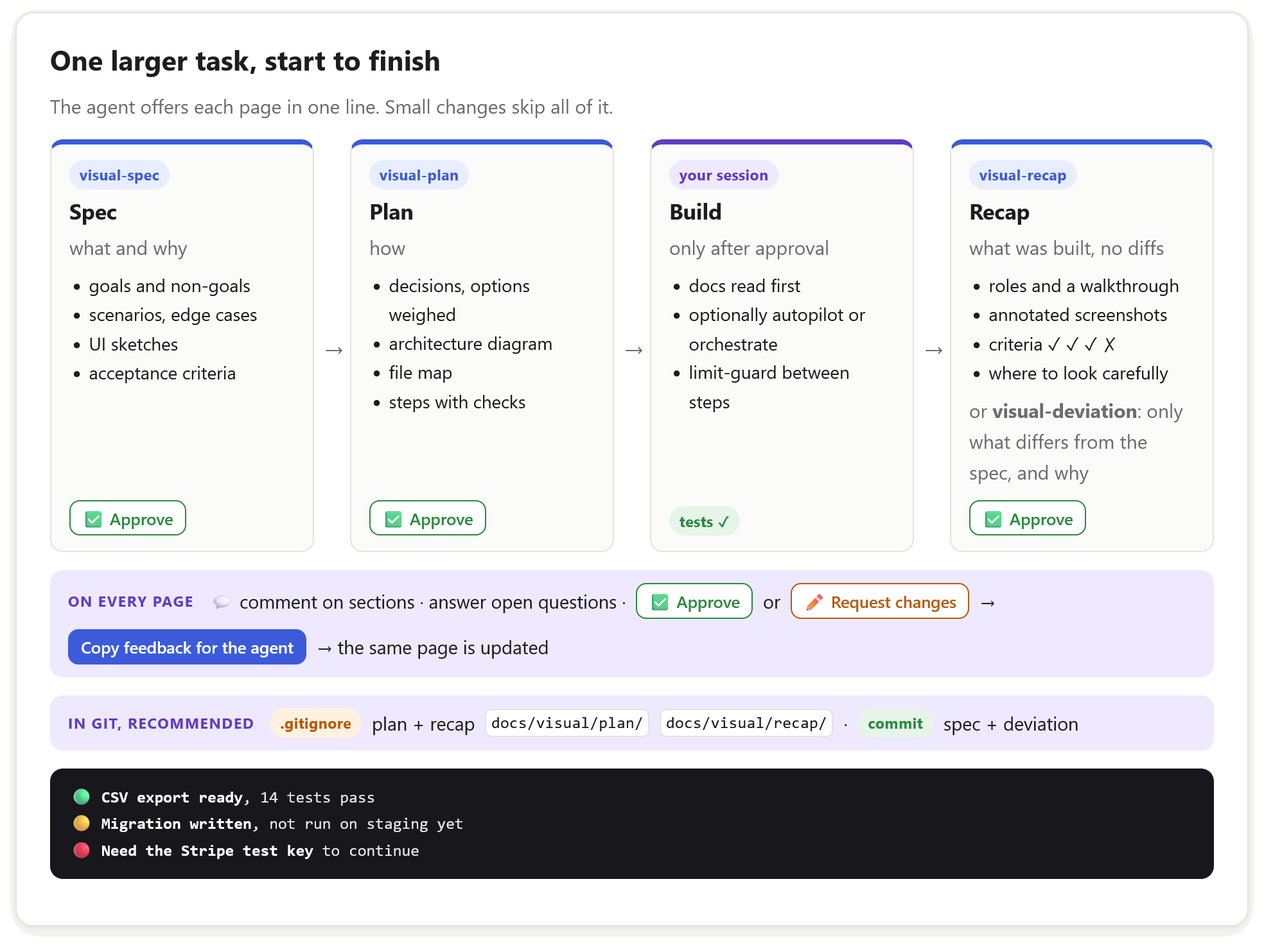
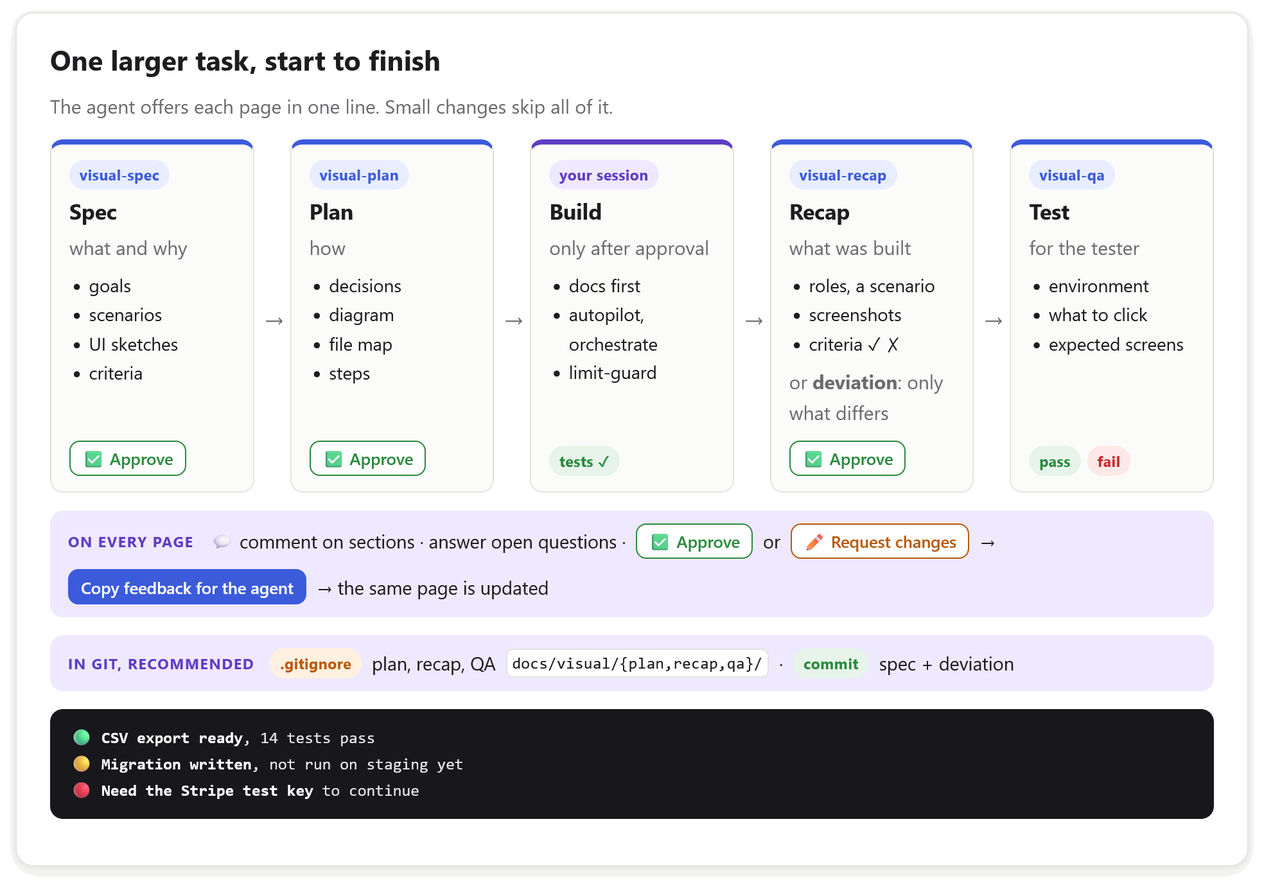
Add /suwagent:visual-qa, a test guide for testers
A visual page for handing finished work to a tester who clicks rather than reads code:
where to test, what changed, scenarios as user actions with the expected screen for each,
what is not a bug, and a pass / fail / blocked results sheet that comes back to the agent.
vdoc.py knows the qa kind; the README, its pictures and the session hook cover it, and
QA pages join plans and recaps in the recommended .gitignore.

diff --git a/docs/visual/board/readme.html b/docs/visual/board/readme.html
@@ -368,6 +368,7 @@ pre.out { font: 12px/1.5 var(--mono); background: var(--code-bg); border: 1px so
       <span class="tag ok">🟢 🟡 🔴 status line</span>
       <span class="tag note">⚙ autopilot · orchestrate</span>
       <span class="tag">📚 docs before code</span>
+      <span class="tag">🧪 test guide</span>
       <span class="tag">🖼 visual README</span>
     </div>
     <div class="side">
@@ -381,8 +382,8 @@ pre.out { font: 12px/1.5 var(--mono); background: var(--code-bg); border: 1px so
       </div>
     </div>
     <div class="stats">
-      <div><b>4</b><span>kinds of page: spec, plan, recap, deviation</span></div>
-      <div><b>12</b><span>skills, started by you or the agent</span></div>
+      <div><b>5</b><span>kinds of page: spec, plan, recap, deviation, QA</span></div>
+      <div><b>13</b><span>skills, started by you or the agent</span></div>
       <div><b>1</b><span>hook: the same rules in every project</span></div>
       <div><b>0</b><span>accounts or API keys to set up</span></div>
     </div>
@@ -421,18 +422,21 @@ pre.out { font: 12px/1.5 var(--mono); background: var(--code-bg); border: 1px so
   <p class="when">The agent offers each page in one line. Small changes skip all of it.</p>
   <div class="flow">
     <div><span class="tag accent">visual-spec</span><h4>Spec</h4><p class="when">what and why</p>
-      <ul><li>goals and non-goals</li><li>scenarios, edge cases</li><li>UI sketches</li><li>acceptance criteria</li></ul>
+      <ul><li>goals</li><li>scenarios</li><li>UI sketches</li><li>criteria</li></ul>
       <div class="foot"><span class="btn ok">✅ Approve</span></div></div>
     <div><span class="tag accent">visual-plan</span><h4>Plan</h4><p class="when">how</p>
-      <ul><li>decisions, options weighed</li><li>architecture diagram</li><li>file map</li><li>steps with checks</li></ul>
+      <ul><li>decisions</li><li>diagram</li><li>file map</li><li>steps</li></ul>
       <div class="foot"><span class="btn ok">✅ Approve</span></div></div>
     <div class="alt"><span class="tag note">your session</span><h4>Build</h4><p class="when">only after approval</p>
-      <ul><li>docs read first</li><li>optionally autopilot or orchestrate</li><li>limit-guard between steps</li></ul>
+      <ul><li>docs first</li><li>autopilot, orchestrate</li><li>limit-guard</li></ul>
       <div class="foot"><span class="tag ok">tests ✓</span></div></div>
-    <div><span class="tag accent">visual-recap</span><h4>Recap</h4><p class="when">what was built, no diffs</p>
-      <ul><li>roles and a walkthrough</li><li>annotated screenshots</li><li>criteria ✓ ✓ ✓ ✗</li><li>where to look carefully</li></ul>
-      <p class="when">or <b>visual-deviation</b>: only what differs from the spec, and why</p>
+    <div><span class="tag accent">visual-recap</span><h4>Recap</h4><p class="when">what was built</p>
+      <ul><li>roles, a scenario</li><li>screenshots</li><li>criteria ✓ ✗</li></ul>
+      <p class="when">or <b>deviation</b>: only what differs</p>
       <div class="foot"><span class="btn ok">✅ Approve</span></div></div>
+    <div><span class="tag accent">visual-qa</span><h4>Test</h4><p class="when">for the tester</p>
+      <ul><li>environment</li><li>what to click</li><li>expected screens</li></ul>
+      <div class="foot"><span class="tag ok">pass</span> <span class="tag bad">fail</span></div></div>
   </div>
   <div class="strip">
     <span class="lbl">On every page</span>
@@ -442,7 +446,7 @@ pre.out { font: 12px/1.5 var(--mono); background: var(--code-bg); border: 1px so
   </div>
   <div class="strip">
     <span class="lbl">In git, recommended</span>
-    <span class="tag warn">.gitignore</span> plan + recap <code>docs/visual/plan/</code> <code>docs/visual/recap/</code> ·
+    <span class="tag warn">.gitignore</span> plan, recap, QA <code>docs/visual/{plan,recap,qa}/</code> ·
     <span class="tag ok">commit</span> spec + deviation
   </div>
   <div class="term">🟢 <b>CSV export ready</b>, 14 tests pass
@@ -452,11 +456,12 @@ pre.out { font: 12px/1.5 var(--mono); background: var(--code-bg); border: 1px so
 
 <section id="skills">
   <div class="group">📄 Visual documents</div>
-  <div class="cards" style="--cols:3">
+  <div class="cards" style="--cols:4">
     <div><span class="ico">🎯</span><h4><code>visual-spec</code></h4><p class="when">before planning a larger change</p><p>problem, goals, scenarios, edge cases, UI sketches, acceptance criteria</p><div class="foot"><span class="tag accent">what and why</span></div></div>
     <div><span class="ico">🗺</span><h4><code>visual-plan</code></h4><p class="when">before writing code</p><p>decisions, architecture diagram, file map, ordered steps, risks</p><div class="foot"><span class="tag accent">how</span></div></div>
     <div><span class="ico">🔍</span><h4><code>visual-recap</code></h4><p class="when">after the work is done</p><p>roles, a real scenario, annotated screenshots, criteria with evidence</p><div class="foot"><span class="tag accent">what was built</span></div></div>
     <div><span class="ico">↔</span><h4><code>visual-deviation</code></h4><p class="when">you want only the differences</p><p>where the build departs from the spec: promised vs built, why, keep / fix / decide</p><div class="foot"><span class="tag accent">commit with the spec</span></div></div>
+    <div><span class="ico">🧪</span><h4><code>visual-qa</code></h4><p class="when">work goes to a tester</p><p>where to test, scenarios as user clicks, the expected screen for each, a results sheet</p><div class="foot"><span class="tag accent">for the tester</span></div></div>
     <div><span class="ico">⚖</span><h4><code>plan-judge</code></h4><p class="when">2+ plans for one task</p><p>compared against the real code: adopt, merge or send back</p><div class="foot"><span class="tag accent">several plans → 1</span></div></div>
     <div><span class="ico">🖼</span><h4><code>visual-readme</code></h4><p class="when">when you ask for it</p><p>a README told in pictures like these, light and dark, redrawn from one source page</p><div class="foot"><span class="tag note">you start it</span></div></div>
   </div>
@@ -482,6 +487,7 @@ pre.out { font: 12px/1.5 var(--mono); background: var(--code-bg); border: 1px so
     <div class="if">A long or parallel run on a Pro/Max plan</div><div class="then ok">limit-guard <small>by itself</small></div>
     <div class="if">Work finished and checked</div><div class="then">visual-recap <small>what was built</small></div>
     <div class="if">Only want what differs from the spec</div><div class="then">visual-deviation <small>+ why</small></div>
+    <div class="if">It goes to a tester or to the client's acceptance</div><div class="then">visual-qa <small>what to click</small></div>
     <div class="if">The README is a wall of text</div><div class="then note">visual-readme <small>you start</small></div>
   </div>
 </section>

diff --git a/plugins/suwagent/scripts/vdoc.py b/plugins/suwagent/scripts/vdoc.py
@@ -1,5 +1,5 @@
 #!/usr/bin/env python3
-"""Helper for suwagent visual documents (visual-spec, visual-plan, visual-recap, visual-deviation) and boards.
+"""Helper for suwagent visual documents (visual-spec, visual-plan, visual-recap, visual-deviation, visual-qa) and boards.
 
     vdoc.py new KIND SLUG --title T [--lang pl]   create docs/visual/KIND/<date>-SLUG.html from the template
                                                   (KIND board: docs/visual/board/SLUG.html, a page of picture panels)
@@ -31,7 +31,8 @@ from array import array
 from pathlib import Path
 
 TEMPLATE = Path(__file__).resolve().parent.parent / "shared" / "template.html"
-KINDS = ("spec", "plan", "recap", "deviation")
+KINDS = ("spec", "plan", "recap", "deviation", "qa")
+LABELS = {"qa": "QA"}  # nav link text where capitalize() would read wrong
 BOARD = "board"
 REGISTRY = "claude-artifacts.md"
 CONTENT_RE = re.compile(r"(<!-- CONTENT START -->)(.*?)(<!-- CONTENT END -->)", re.S)
@@ -54,6 +55,7 @@ EXPECTED = {
     "plan": ["tldr", "approach", "files", "steps", "verification", "questions"],
     "recap": ["tldr", "acceptance", "how", "files", "verification", "review"],
     "deviation": ["tldr", "deviations"],
+    "qa": ["tldr", "environment", "scenarios", "results"],
 }
 
 
@@ -65,7 +67,7 @@ def kind_of(path):
     """The document kind is the name of the folder it sits in: docs/visual/<kind>/<file>.html."""
     kind = path.resolve().parent.name
     if kind not in KINDS:
-        sys.exit(f"{path} is not in a docs/visual/<spec|plan|recap|deviation>/ folder")
+        sys.exit(f"{path} is not in a docs/visual/<spec|plan|recap|deviation|qa>/ folder")
     return kind
 
 
@@ -391,7 +393,7 @@ def cmd_links(a):
             continue
         reg = read_registry(sib.parent).get(sib.name)
         target = reg["url"] if reg else f"../{other}/{sib.name}"
-        print(f'nav {other}: <a href="{target}">{other.capitalize()}</a>' + ("" if reg else "  (local only)"))
+        print(f'nav {other}: <a href="{target}">{LABELS.get(other, other.capitalize())}</a>' + ("" if reg else "  (local only)"))
 
 
 def cmd_register(a):

diff --git a/README.md b/README.md
@@ -1,6 +1,6 @@
 <picture>
   <source media="(prefers-color-scheme: dark)" srcset="docs/visual/board/img/readme/hero-dark.png">
-  <img alt="suwagent, a Claude Code plugin: review your coding agent's work on visual pages, not walls of text. Spec → plan → recap or deviation, a 🟢🟡🔴 status line, autopilot and orchestrate, docs before code. 4 kinds of page, 12 skills, 1 hook, 0 accounts or API keys." src="docs/visual/board/img/readme/hero-light.png" width="100%">
+  <img alt="suwagent, a Claude Code plugin: review your coding agent's work on visual pages, not walls of text. Spec → plan → recap or deviation, a test guide for the tester, a 🟢🟡🔴 status line, autopilot and orchestrate, docs before code. 5 kinds of page, 13 skills, 1 hook, 0 accounts or API keys." src="docs/visual/board/img/readme/hero-light.png" width="100%">
 </picture>
 
 ## Install
@@ -30,19 +30,26 @@ Requirements: `git` and `python3` (standard library only).
 
 <picture>
   <source media="(prefers-color-scheme: dark)" srcset="docs/visual/board/img/readme/flow-dark.png">
-  <img alt="One larger task: Spec (what and why, approve) → Plan (how, approve) → Build (only after approval, docs first, optionally autopilot or orchestrate) → Recap (what was built, criteria checked), or visual-deviation (only what differs from the spec, and why). On every page: comment, answer questions, Approve or Request changes, Copy feedback for the agent, and the same page is updated. In git, recommended: plan and recap in .gitignore (docs/visual/plan/, docs/visual/recap/), spec and deviation committed. Answers end with a status line: 🟢 done, 🟡 pending, 🔴 waiting for you." src="docs/visual/board/img/readme/flow-light.png" width="100%">
+  <img alt="One larger task: Spec (what and why, approve) → Plan (how, approve) → Build (only after approval, docs first, optionally autopilot or orchestrate) → Recap (what was built, criteria checked), or visual-deviation (only what differs from the spec, and why) → Test with visual-qa (for the tester: where, scenarios as clicks, expected screens, pass or fail). On every page: comment, answer questions, Approve or Request changes, Copy feedback for the agent, and the same page is updated. In git, recommended: plan, recap and QA in .gitignore (docs/visual/plan/, docs/visual/recap/, docs/visual/qa/), spec and deviation committed. Answers end with a status line: 🟢 done, 🟡 pending, 🔴 waiting for you." src="docs/visual/board/img/readme/flow-light.png" width="100%">
 </picture>
 
 You don't have to remember any command: the agent offers each page in one line when a task is big
-enough. Every page is a self-contained HTML file in `docs/visual/<spec|plan|recap|deviation>/`, and by
+enough. Every page is a self-contained HTML file in `docs/visual/<spec|plan|recap|deviation|qa>/`, and by
 default also a private claude.ai artifact you can open and comment on from any device.
 
 `/suwagent:visual-deviation` is the short alternative to a recap: only where the build departs from
 the spec, each difference with what was promised, what was built, why, and keep / fix / decide.
 Use it when you know the spec and don't need the whole story.
 
-**What goes into git.** Recommended: plans and recaps in `.gitignore`, specs and deviation pages
-committed. Plans and recaps are working pages of one task; the spec and the deviation page stay true
+`/suwagent:visual-qa` hands finished work to a tester who clicks rather than reads code: where to test
+(environment, version, accounts, test data), scenarios as user actions with the real labels, the
+expected result of each as a screenshot or sketch, what is not a bug, and a results sheet (pass / fail /
+blocked) that comes back to the agent. Say where and how to test when you start it, e.g.
+`/suwagent:visual-qa staging https://test.example.com, manual UI on desktop`; without an environment
+the agent asks for one.
+
+**What goes into git.** Recommended: plans, recaps and QA pages in `.gitignore`, specs and deviation
+pages committed. Plans, recaps and QA pages are working pages of one task; the spec and the deviation page stay true
 after the work is merged (the contract, and where the build consciously departs from it), so they go
 in together.
 
@@ -50,9 +57,10 @@ in together.
 # suwagent: working pages of one task
 docs/visual/plan/
 docs/visual/recap/
+docs/visual/qa/
 ```
 
-The agent offers to add these lines when it writes a plan or recap in a repository that doesn't
+The agent offers to add these lines when it writes a plan, recap or QA page in a repository that doesn't
 ignore them yet.
 
 This is what one looks like — [the recap of this repository](docs/visual/recap/2026-10-25-suwagent-plugin.html), in Polish:
@@ -66,12 +74,12 @@ This is what one looks like — [the recap of this repository](docs/visual/recap
 
 <picture>
   <source media="(prefers-color-scheme: dark)" srcset="docs/visual/board/img/readme/skills-dark.png">
-  <img alt="Visual documents: visual-spec (what and why), visual-plan (how), visual-recap (what was built), visual-deviation (only the differences from the spec; commit it with the spec), plan-judge (several plans into one), visual-readme (you start it; a README told in pictures, light and dark). Ways of working: autopilot (you start it; no routine questions, decisions logged), orchestrate (you start it; the main model decides, haiku and sonnet subagents do the volume), limit-guard (pauses at 90% of the 5-hour or 95% of the weekly limit), mandatory-docs (automatic; official docs of the installed version)." src="docs/visual/board/img/readme/skills-light.png" width="100%">
+  <img alt="Visual documents: visual-spec (what and why), visual-plan (how), visual-recap (what was built), visual-deviation (only the differences from the spec; commit it with the spec), visual-qa (a test guide for the tester: where, what to click, what to expect), plan-judge (several plans into one), visual-readme (you start it; a README told in pictures, light and dark). Ways of working: autopilot (you start it; no routine questions, decisions logged), orchestrate (you start it; the main model decides, haiku and sonnet subagents do the volume), limit-guard (pauses at 90% of the 5-hour or 95% of the weekly limit), mandatory-docs (automatic; official docs of the installed version)." src="docs/visual/board/img/readme/skills-light.png" width="100%">
 </picture>
 
 <picture>
   <source media="(prefers-color-scheme: dark)" srcset="docs/visual/board/img/readme/choose-dark.png">
-  <img alt="Which one, when: a typo or question → just done; details still open → visual-spec; requirements clear → visual-plan; two plans → plan-judge; 'do it without me' → autopilot; mostly reading, tests, mechanical edits → orchestrate; a long run on Pro/Max → limit-guard; work finished → visual-recap; only what differs from the spec → visual-deviation; the README is a wall of text → visual-readme." src="docs/visual/board/img/readme/choose-light.png" width="100%">
+  <img alt="Which one, when: a typo or question → just done; details still open → visual-spec; requirements clear → visual-plan; two plans → plan-judge; 'do it without me' → autopilot; mostly reading, tests, mechanical edits → orchestrate; a long run on Pro/Max → limit-guard; work finished → visual-recap; only what differs from the spec → visual-deviation; it goes to a tester or the client's acceptance → visual-qa; the README is a wall of text → visual-readme." src="docs/visual/board/img/readme/choose-light.png" width="100%">
 </picture>
 
 All skills are invoked as `/suwagent:<name>`; `/suwagent:efficient-frontier` is an alias of
@@ -85,7 +93,7 @@ only when you say so. On a branch that is already part of a chain, the agent fol
 without being asked.
 
 The pictures in this README were made by `/suwagent:visual-readme`: panels on a board page,
-drawn with the same styles as the spec, plan, recap and deviation pages and rendered in both themes.
+drawn with the same styles as the visual document pages and rendered in both themes.
 
 <details>
 <summary><b>orchestrate</b> and <b>limit-guard</b>, inside</summary>
@@ -195,7 +203,7 @@ After editing the plugin in a running session, run `/reload-plugins`.
 .claude-plugin/marketplace.json     the catalog: lists the plugins in this repository
 plugins/suwagent/
   .claude-plugin/plugin.json        manifest: name, description, userConfig
-  skills/visual-{spec,plan,recap,deviation}/  the visual document skills (SKILL.md each)
+  skills/visual-{spec,plan,recap,deviation,qa}/  the visual document skills (SKILL.md each)
   skills/visual-readme/             the README told in pictures, from a board page
   skills/mandatory-docs/            docs-before-code procedure
   skills/autopilot/ orchestrate/ plan-judge/ limit-guard/   ways of working

diff --git a/plugins/suwagent/skills/visual-qa/SKILL.md b/plugins/suwagent/skills/visual-qa/SKILL.md
@@ -1,0 +1,122 @@
+---
+name: visual-qa
+description: Write a visual test guide for a tester on finished work, as an HTML page with no technical detail. It says where to test (environment, version, accounts, test data), what changed and where to look, and a set of scenarios as user actions, each with the expected result shown as a screenshot or sketch of the correctly working system. It ends with a results sheet the tester fills in (pass / fail / blocked) and sends back. Use when finished work goes to a tester, QA or the client for acceptance testing.
+when_to_use: Finished work goes to testing, or the user says "visual qa", "qa", "dla testera", "instrukcja testów", "co testować", "scenariusze testowe", "testy akceptacyjne", "przekaż do testów".
+argument-hint: "[environment, e.g. staging https://test.example.com] [who tests and how, e.g. manual UI, mobile, API]"
+---
+
+# Visual QA
+
+A QA page is a test guide for someone who uses the system the way a user does: they click,
+type and look, and they don't read code. It answers three questions: **where do I test,
+what do I do, and what should I see when it works.** The tester should be able to start
+without asking the developer anything, and to tell a bug from expected behaviour by
+comparing the screen with the page.
+
+Before writing, read these two files. They hold the rules shared by the visual skills and
+the HTML blocks:
+
+- `${CLAUDE_PLUGIN_ROOT}/shared/authoring.md`: where the file goes, the steps
+  (`vdoc.py new` → write → `check` → publish + `register`), the review loop, and the quality bar
+- `${CLAUDE_PLUGIN_ROOT}/shared/components.md`: the block catalog, especially "Screenshot
+  with numbered marks", "Wireframe", "Steps" and "Open questions"
+
+Publishing mode: **${user_config.publish_mode}**. It is `artifact` (publish as a claude.ai
+artifact and record it in `claude-artifacts.md`) or `local`; see "Publishing mode" in
+authoring.md. If a placeholder shows here instead of a value, use `artifact`.
+
+Where and how to test: $ARGUMENTS
+
+## Where and how: settle it first
+
+There is no single way to test, so the page is written for **this** environment and
+**this** tester. Before writing, have:
+
+- **the environment**: its name and address (staging, test, a preview URL, a build or an
+  app version), and how the tester checks that the new version is the one deployed there
+  (a version number, a release date, a visible change);
+- **access**: the accounts or roles to use, named, never with passwords or tokens. Say
+  where the credentials are (the team's password manager, the person to ask);
+- **the kind of testing**: manual UI on desktop (the default), mobile or particular
+  browsers, an API through a tool such as Postman, or the client's acceptance test.
+
+Take these from the arguments, the conversation, and the project (deploy configs, CI, the
+README). **If the environment is still unknown, ask the user once**, in one question that
+offers what was found in the project, and wait: a guide for the wrong environment is
+worse than none. Everything else (scope, scenarios, language) decide yourself and say so
+in the page. Write in the language the user writes in, unless they name the tester's
+language.
+
+## Find what to test
+
+- **The baseline**: the spec of this work in `docs/visual/spec/` (its acceptance criteria and
+  scenarios become test scenarios), then the recap and the deviation page if they exist
+  (what was really built, and what consciously differs from the spec). Create the page
+  with the **same slug**.
+- **The change itself**, chosen as in visual-recap: with no other hint, everything changed on
+  the current branch since it left the base branch. Read it to learn what a user can now
+  do differently, not to describe code.
+- **The running system.** Open the environment (or a local run of the same version) and walk
+  every scenario yourself before writing it down: the button labels, messages and screens
+  in the page must be the real ones. A scenario you couldn't walk is marked as written
+  from the code, in a `callout assumption`.
+
+## Write for a tester
+
+- **Steps are user actions** with the exact words on the screen: "Click **Eksportuj CSV**
+  above the table", never "call the export endpoint". No file paths, class names, endpoints,
+  SQL or logs, unless the kind of testing is API testing; then name requests the way the
+  tester's tool shows them.
+- **Every scenario has an expected result** that can be checked by looking: what appears,
+  what changes, what message is shown, what is in the downloaded file. "Works correctly" is
+  not an expected result.
+- **Show the correct state.** For each scenario that ends on a screen, a screenshot of that
+  screen with numbered marks on what to check, shot with `vdoc.py shot` or this session's
+  browser tool. Use test data only, never real customer data, especially in `artifact` mode.
+  When the system can't be run from here, draw the expected screen as a wireframe grounded
+  in the real components and labels, and mark it as reconstructed.
+- **Say what is not a bug.** Known deviations from the spec, parts not deployed yet, and
+  areas out of scope go in their own section, so the tester doesn't report them.
+
+## Sections, in order
+
+Aim for a page that takes 5 minutes to read; the testing itself can take longer.
+
+1. **Header**, `doc-kind` "QA", status `draft` until the user approves it for the tester,
+   then `approved`. In the meta line: the environment, the version or branch, and the date.
+2. `tldr`: what changed for the user in 2-3 sentences, then `stats`: scenarios, roughly
+   how long testing takes, accounts needed.
+3. `environment`: **Where to test**: the address, how to check the version, the accounts or
+   roles (where the credentials are), the test data to prepare and how, the browsers or
+   devices, and anything to switch on (a feature flag, a setting).
+4. `changes`: **What's new**: a before/after screenshot or wireframe with numbered marks
+   showing where in the system the change is, so the tester knows where to look. One short
+   paragraph per change, in user words.
+5. `scenarios`: **What to test**, the main path first, then its variations, then the edge
+   and error cases that matter for this change (wrong or empty input, no permission, cancel,
+   going back, refreshing in the middle, a large amount of data). Leave out generic cases
+   that this change doesn't touch. Each scenario is an `<h3>` with a number and a name
+   ("S1. Eksport przefiltrowanej listy"), the preconditions in one line, the steps as a
+   `steps` list, and **Expected:** with the screenshot or sketch of the correct result.
+6. `known`: **Not a bug**: known deviations, not yet deployed, out of scope, each in one
+   line. Leave it out when there is nothing.
+7. `results`: **Results**: one `questions` form with a fieldset per scenario (`data-id` =
+   the scenario number, the legend = its name) and three radio options: Pass, Fail,
+   Blocked (couldn't test). The page adds a free-text box to each; say above the form that
+   for a fail the tester writes what happened instead of the expected result, and that
+   **Copy feedback for the agent** (or a comment on the artifact) sends the results back.
+
+## Hand-off
+
+Follow the hand-off step in authoring.md. In `artifact` mode, remind the user in one line
+that the artifact is private until they share it with the tester. In `local` mode, the
+`.html` file is what they send.
+
+## When the results come back
+
+Results arrive as a block that starts with `Feedback on qa` / `Feedback do qa`, as
+comments on the artifact, or in plain chat. For every fail, reproduce it on the environment
+or locally before changing code; a fail that is expected behaviour is answered by
+improving the scenario's expected result instead. Fixed issues go back to implementation,
+then the page is updated (the build to test, the scenarios to repeat) and published again
+to the same artifact.

diff --git a/plugins/suwagent/hooks/context/visual-workflow.md b/plugins/suwagent/hooks/context/visual-workflow.md
@@ -1,12 +1,13 @@
-This user reviews agent work through visual HTML pages instead of long chat text, using four skills: /suwagent:visual-spec (what and why), /suwagent:visual-plan (how), /suwagent:visual-recap (what was built and how it works) and /suwagent:visual-deviation (only where the implementation departs from the spec, and why). The pages are saved under docs/visual/<spec|plan|recap|deviation>/ and, by default, also published as claude.ai artifacts, whose links are recorded in docs/visual/<kind>/claude-artifacts.md.
+This user reviews agent work through visual HTML pages instead of long chat text, using five skills: /suwagent:visual-spec (what and why), /suwagent:visual-plan (how), /suwagent:visual-recap (what was built and how it works), /suwagent:visual-deviation (only where the implementation departs from the spec, and why) and /suwagent:visual-qa (a test guide for a tester: where to test, what to do, what a working system shows). The pages are saved under docs/visual/<spec|plan|recap|deviation|qa>/ and, by default, also published as claude.ai artifacts, whose links are recorded in docs/visual/<kind>/claude-artifacts.md.
 
 The user's working agreement for larger changes (a new feature, several files, a change of behaviour, an API or data shape, or a choice between approaches):
 - Before planning, offer in one line to write a visual spec, unless the requirements are already pinned down or an approved spec exists.
 - Before writing code, offer a visual plan, and start implementing only after the user approves it.
 - After the work is finished and verified, offer a visual recap. When a spec exists and the user wants only the differences rather than the whole story, or a record to keep in the repository next to the spec, offer /suwagent:visual-deviation instead: a short page with each departure from the spec, its reason and a keep / fix / decide recommendation.
+- When finished work goes to a tester, QA or the client's acceptance testing, offer /suwagent:visual-qa: a test guide without technical detail, written for the environment the user names (the agent asks for it if it isn't known).
 - When the user declines one of these for a task, don't offer it again for that task.
 
-What goes into git, the user's recommendation for every repository: plans and recaps are gitignored (docs/visual/plan/ and docs/visual/recap/ in .gitignore), because they are working pages of one task; specs and deviation pages are committed, together, because they stay true after the work is merged (the contract, and where the build consciously departs from it). When the agent writes a plan or recap in a repository whose .gitignore doesn't cover them yet (check with `git check-ignore`), it recommends adding those two lines in one line, and adds them only when the user agrees; after a no, it doesn't ask again in that repository.
+What goes into git, the user's recommendation for every repository: plans, recaps and QA pages are gitignored (docs/visual/plan/, docs/visual/recap/ and docs/visual/qa/ in .gitignore), because they are working pages of one task; specs and deviation pages are committed, together, because they stay true after the work is merged (the contract, and where the build consciously departs from it). When the agent writes a plan, recap or QA page in a repository whose .gitignore doesn't cover them yet (check with `git check-ignore`), it recommends adding those lines in one line, and adds them only when the user agrees; after a no, it doesn't ask again in that repository.
 
 When the user asks for a better, nicer or more visual README, recommend /suwagent:visual-readme in one line; start it only when the user asks for it. It redraws the README as light/dark pictures from a board page in docs/visual/board/.
 

diff --git a/plugins/suwagent/shared/authoring.md b/plugins/suwagent/shared/authoring.md
@@ -1,6 +1,6 @@
 # Authoring a suwagent visual document
 
-Shared rules for `visual-spec`, `visual-plan`, `visual-recap`, `visual-deviation` and the boards of `visual-readme`. The block catalog is in
+Shared rules for `visual-spec`, `visual-plan`, `visual-recap`, `visual-deviation`, `visual-qa` and the boards of `visual-readme`. The block catalog is in
 `components.md` next to this file.
 
 ## Why the document exists
@@ -13,14 +13,15 @@ spatial, real names (files, functions, fields) instead of vague nouns, and nothi
 
 ## Where the files go
 
-One folder per kind. The spec, plan, recap and deviation page of the same piece of work share
-one file name, so they find and link to each other:
+One folder per kind. The spec, plan, recap, deviation and QA page of the same piece of work
+share one file name, so they find and link to each other:
 
 ```
 docs/visual/spec/2026-10-25-export-csv.html
 docs/visual/plan/2026-10-25-export-csv.html
 docs/visual/recap/2026-10-25-export-csv.html
 docs/visual/deviation/2026-10-25-export-csv.html
+docs/visual/qa/2026-10-25-export-csv.html
 docs/visual/recap/claude-artifacts.md      ← links to the published artifacts of this folder
 ```
 
@@ -80,7 +81,7 @@ The helper is `${CLAUDE_PLUGIN_ROOT}/scripts/vdoc.py` (Python 3, standard librar
    1. Run `vdoc.py links <file>`. It says whether this file already has an artifact.
    2. Publish the local file with the Artifact tool, using `file_path` = the local `.html`:
       - **Not published yet**: give an `icon` (`list` for a spec, `map` for a plan, `report`
-        for a recap, `compare` for a deviation page) and a one-sentence `description`.
+        for a recap, `compare` for a deviation page, `checklist` for a QA page) and a one-sentence `description`.
       - **Already published**: update **that** artifact by passing its URL as `url`, so the
         link stays the same. If the tool requires a read of the artifact first, read it, then
         publish the local file.
@@ -195,7 +196,7 @@ run `vdoc.py refresh <page>`: it swaps the frame for the current template's and 
 
 ```html
 <header class="doc-head">
-  <span class="doc-kind">Plan</span>  <!-- Spec / Plan / Recap / Deviation, in the document's language -->
+  <span class="doc-kind">Plan</span>  <!-- Spec / Plan / Recap / Deviation / QA, in the document's language -->
   <h1>Eksport raportów do CSV</h1>
   <div class="doc-meta">
     <span><b>Status:</b> <span class="status draft">draft</span></span>
